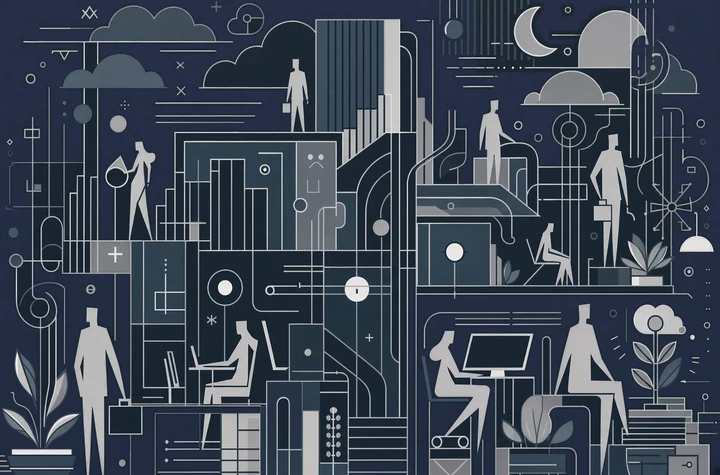
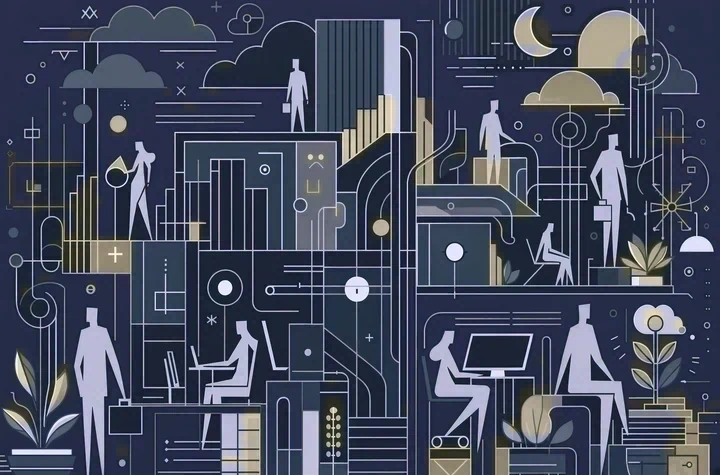
Fix: login-dm grade + DM login button from image browns
Walls toward #28304a; whites cooler; LM-brown regions warmer; light lines
whiter. DM login button fill #bdb6a4 from lighter image browns.

diff --git a/service/www/3/index.html b/service/www/3/index.html
@@ -232,7 +232,7 @@
 			filter: brightness(0) invert(0.85);
 		}
 		:root[data-theme="dark_mode"] #logindiv .loginbutton {
-			background-color: #b8944f;
+			background-color: #bdb6a4;
 			color: #1f1a12;
 		}
 		:root[data-theme="dark_mode"] .login-footer {
